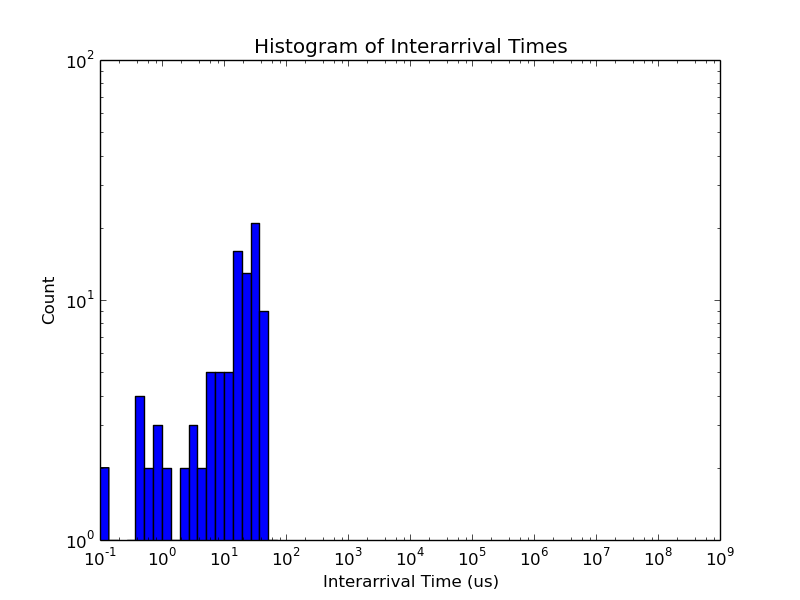
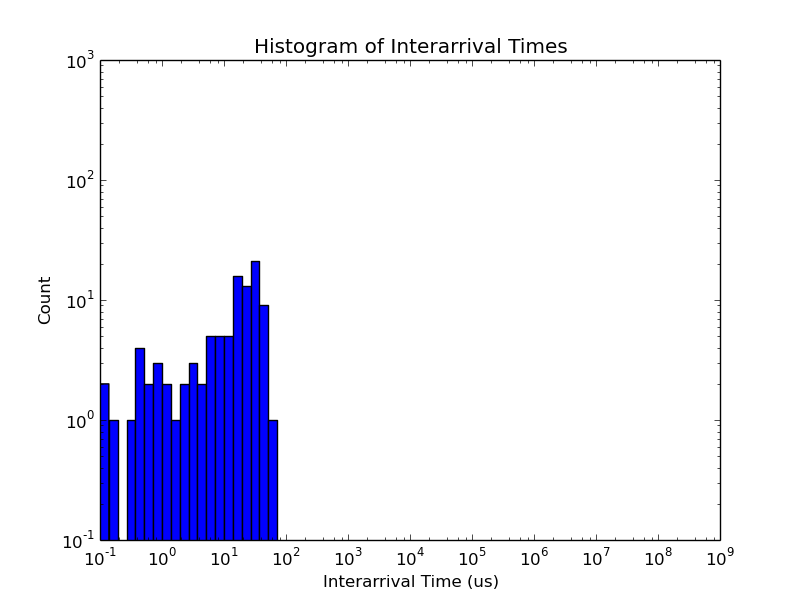
updated chart params

diff --git a/readFlowTrace.py b/readFlowTrace.py
@@ -69,10 +69,10 @@ def flowSizes(flows, prefix=None):
     plotSizeCDF(allfs, 'All Flows', 'allflowsizes', logx=True)
 
     mems = [f['size'] for f in flows if 'mem' in f['type']]
-    plotSizeCDF(mems, 'Remote Memory Flows', 'memflowsizes')
+    plotSizeCDF(mems, 'Remote Memory Flows', 'memflowsizes', logx=True)
 
     disk = [f['size'] for f in flows if 'disk' in f['type']]
-    plotSizeCDF(disk, 'Disk Flows', 'diskflowsizes')
+    plotSizeCDF(disk, 'Disk Flows', 'diskflowsizes', logx=True)
 
 
 def sdAnalysis(flows):
@@ -127,6 +127,7 @@ def sourceInterarrival(flows, prefix=None):
     plt.title('Histogram of Interarrival Times')
     plt.xlabel('Interarrival Time (us)')
     plt.ylabel('Count')
+    plt.ylim(0.1, 1e3)
     for s in srcs:
         inters = list(interarrivals(f['time'] for f in flows if f['src'] == s))
         bin_vals, bin_edges, _ = plt.hist(inters, bins=np.logspace(-1, 6), log=True)
